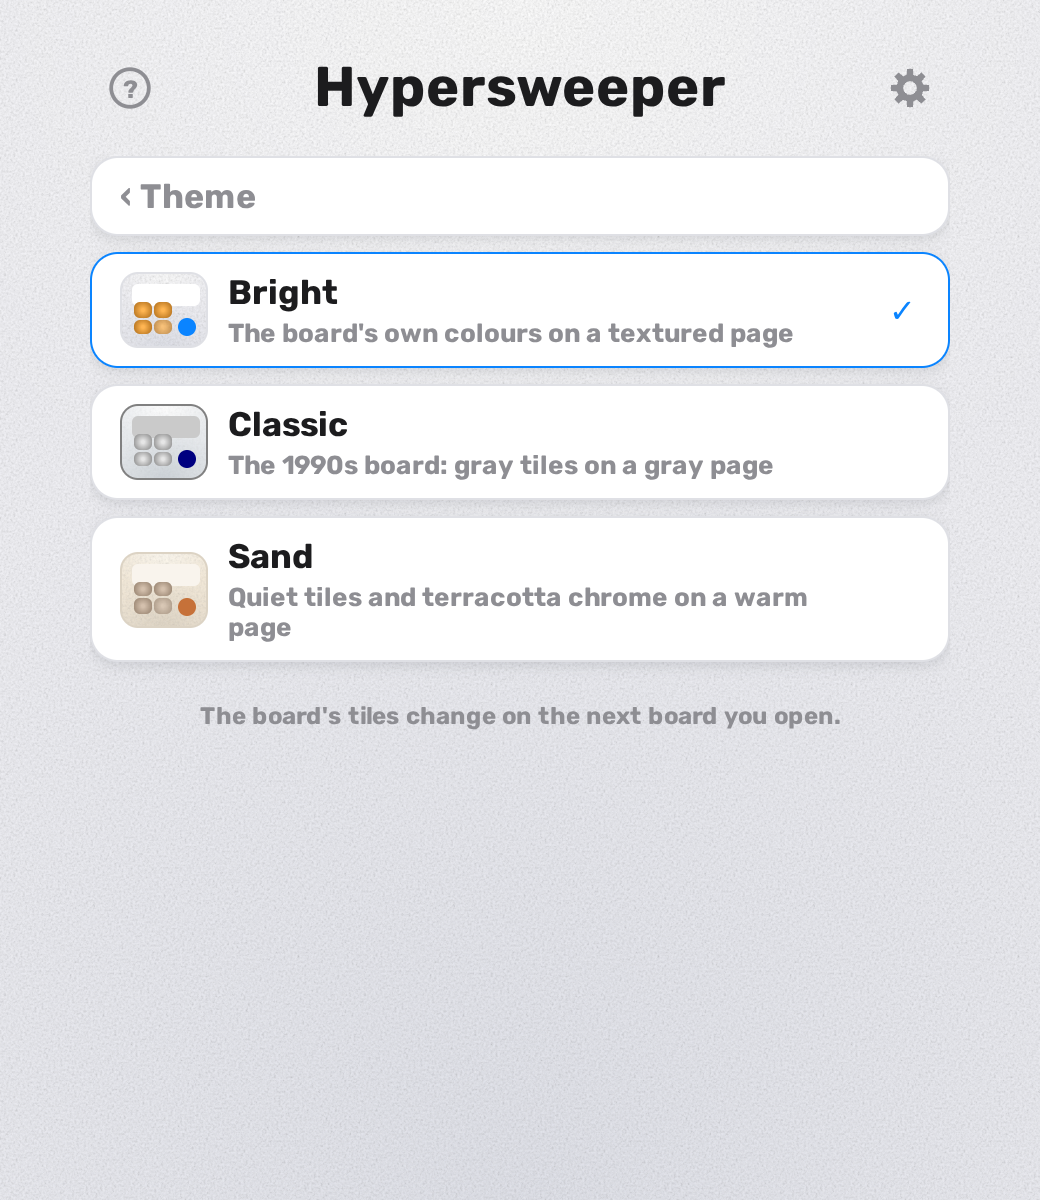
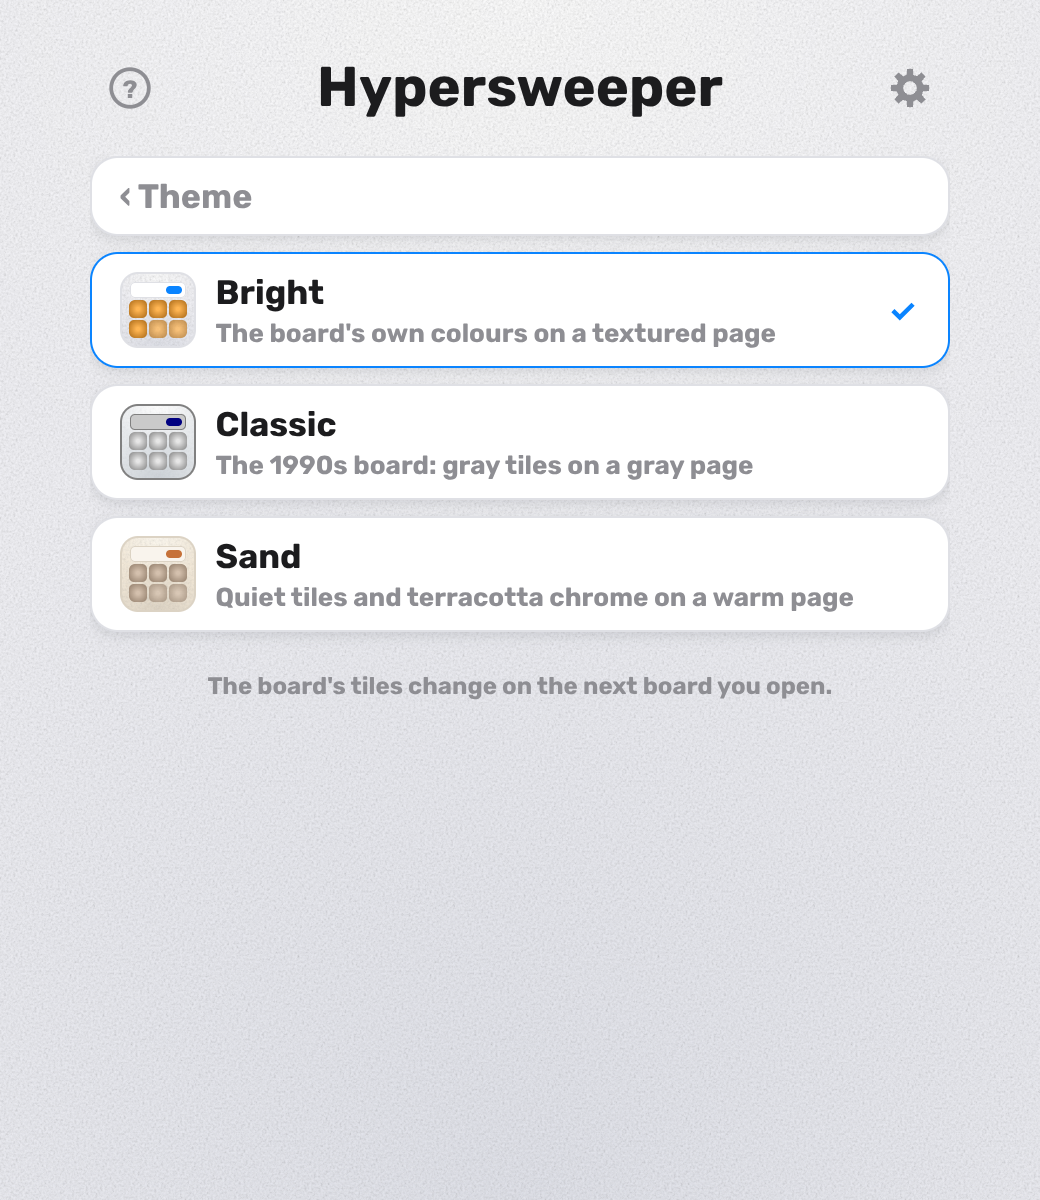
Redraw the appearance swatches in square proportions (#201)

diff --git a/web/src/ui/styles.css b/web/src/ui/styles.css
@@ -1476,13 +1476,19 @@ body {
    retuning a profile. */
 .cell-swatch {
   position: absolute;
-  left: 5px;
-  bottom: 5px;
+  left: 50%;
+  bottom: 4px;
+  transform: translateX(-50%);
   display: grid;
-  grid-template-columns: repeat(2, 1fr);
-  width: 21px;
-  height: 18px;
-  border-radius: 4px;
+  /* Fixed square tracks rather than `1fr`: each cut below picks its own gap
+     and padding, and a fraction of a fixed box would turn the tiles into
+     ovals the moment those differ. The block sizes itself instead, 27–29px
+     wide under every cut, and is centred under the card. */
+  grid-template-columns: repeat(3, var(--tile-size));
+  grid-auto-rows: var(--tile-size);
+  --tile-size: 8px;
+  gap: 2px;
+  border-radius: 3px;
   overflow: hidden;
   /* Bright's board, and the fallback: the shape palette's own orange at the
      hidden/opened step a square tile is drawn at. */
@@ -1525,13 +1531,12 @@ body {
 /* Soft: rounded pillows with a lit top edge, lifted off the panel by a soft
    shadow; an opened tile is a shallow dish that casts none. */
 .cell-swatch[data-shape="soft"] {
-  gap: 3px;
-  padding: 2px;
+  overflow: visible;
   background: transparent;
 }
 
 .cell-swatch[data-shape="soft"] .cell-swatch-tile {
-  border-radius: 4px;
+  border-radius: 2.5px;
   box-shadow:
     inset 0 1px 0 var(--tile-hi),
     inset 0 -1px 0 var(--tile-lo),
@@ -1544,7 +1549,9 @@ body {
 
 /* Classic: a hard bevel, inverted on the opened tile. */
 .cell-swatch[data-shape="classic"] {
-  gap: 1px;
+  --tile-size: 9px;
+  gap: 0;
+  border-radius: 1px;
 }
 
 .cell-swatch[data-shape="classic"] .cell-swatch-tile {
@@ -1557,12 +1564,16 @@ body {
   border-color: var(--tile-lo) var(--tile-hi) var(--tile-hi) var(--tile-lo);
 }
 
-/* Flat: unlit plate colour, wide gaps, no relief at all. The panel shows
-   between the tiles rather than the grout, as the page does on the real board. */
+/* Flat: unlit plate colour, near-square corners, no relief at all. The swatch's
+   own page field shows between the tiles rather than the grout, as the page
+   does on the real board. */
 .cell-swatch[data-shape="flat"] {
-  gap: 3px;
-  padding: 2px;
-  background: var(--panel);
+  border-radius: 0;
+  background: transparent;
+}
+
+.cell-swatch[data-shape="flat"] .cell-swatch-tile {
+  border-radius: 1px;
 }
 
 /* Realistic: glass beads, each lit from its own middle — and an opened tile that
@@ -1572,13 +1583,13 @@ body {
    theme whose board stays opaque at every cut (`BOARD_LOOKS.classic` clears
    `openAlpha`), so it takes that back below. */
 .cell-swatch[data-shape="realistic"] {
+  --tile-size: 9px;
   gap: 1px;
-  padding: 1px;
   background: transparent;
 }
 
 .cell-swatch[data-shape="realistic"] .cell-swatch-tile {
-  border-radius: 3px;
+  border-radius: 2.5px;
   background: radial-gradient(circle at 50% 50%, var(--tile-hi) 0 12%, var(--tile-lo) 92%);
 }
 
@@ -1621,7 +1632,6 @@ body {
   opacity: 0.5;
 }
 
-/* A theme's palette in miniature: its page field, a card on it, an accent dot. */
 /* A theme in miniature, and literally so: ui/settings.ts writes the theme's
    whole custom-property set onto this element, so everything inside resolves
    its colours (and the page texture) through the same `var(--…)` the real
@@ -1634,7 +1644,8 @@ body {
 .theme-swatch {
   position: relative;
   flex: none;
-  width: 44px;
+  box-sizing: border-box;
+  width: 38px;
   height: 38px;
   border: 1px solid var(--border);
   border-radius: 9px;
@@ -1644,22 +1655,29 @@ body {
     linear-gradient(160deg, var(--bg), var(--bg2));
 }
 
+/* The chrome above the board: a card the width of the tile block, carrying the
+   accent as the one place the real chrome wears it most — a switch, on. */
 .theme-swatch-card {
   position: absolute;
-  left: 5px;
-  top: 5px;
-  width: 34px;
-  height: 11px;
-  border-radius: 3px;
+  left: 4px;
+  right: 4px;
+  top: 4px;
+  height: 8px;
+  border-radius: 2.5px;
+  /* The hairline is a shadow rather than a border: a 0.5px border is rounded
+     to whole device pixels, which moved the padding box the switch is placed
+     in and left it a pixel low. A shadow takes no room, so the switch sits on
+     exact 2px margins top, bottom and right. */
+  box-shadow: inset 0 0 0 0.5px var(--border);
   background: var(--panel);
 }
 
 .theme-swatch-dot {
   position: absolute;
-  right: 5px;
-  bottom: 5px;
-  width: 9px;
-  height: 9px;
+  right: 2px;
+  top: 2px;
+  width: 8px;
+  height: 4px;
   border-radius: 999px;
   background: var(--accent);
 }
@@ -1669,6 +1687,7 @@ body {
    theme's, so the cream icon still has an edge on the Sand page. */
 .app-icon-swatch {
   flex: none;
+  box-sizing: border-box;
   width: 38px;
   height: 38px;
   border: 1px solid var(--border);

diff --git a/web/src/ui/settings.ts b/web/src/ui/settings.ts
@@ -200,8 +200,8 @@ function heading(text: string): HTMLElement {
 }
 
 /** A look in miniature: a theme's page field (texture and all), a chrome card on
- * it, a strip of board tiles cut to a shape — one of the four "opened" — and an
- * accent dot. Every picker draws with it, and each varies the one axis it is
+ * it carrying the accent as a switch, and under it a corner of board — six
+ * square tiles cut to a shape, two of them opened. Every picker draws with it, and each varies the one axis it is
  * about: the theme page draws every theme at the shape in force, the shape page
  * every shape under the theme in force, and the scheme page the current pair
  * under each scheme. So a row always shows exactly what picking it changes.
@@ -235,14 +235,17 @@ function themeSwatch(key: string, shape: string, scheme: Scheme): HTMLElement {
   const cells = document.createElement("span");
   cells.className = "cell-swatch";
   cells.dataset["shape"] = shape;
-  for (let i = 0; i < 4; i++) {
+  // Three by two, the last two opened: a corner of a board in play, with both
+  // of a cut's states side by side and touching, as they are on the board.
+  for (let i = 0; i < 6; i++) {
     const tile = document.createElement("span");
-    tile.className = i === 3 ? "cell-swatch-tile open" : "cell-swatch-tile";
+    tile.className = i >= 4 ? "cell-swatch-tile open" : "cell-swatch-tile";
     cells.append(tile);
   }
   const dot = document.createElement("span");
   dot.className = "theme-swatch-dot";
-  el.append(card, cells, dot);
+  card.append(dot);
+  el.append(card, cells);
   return el;
 }
 
